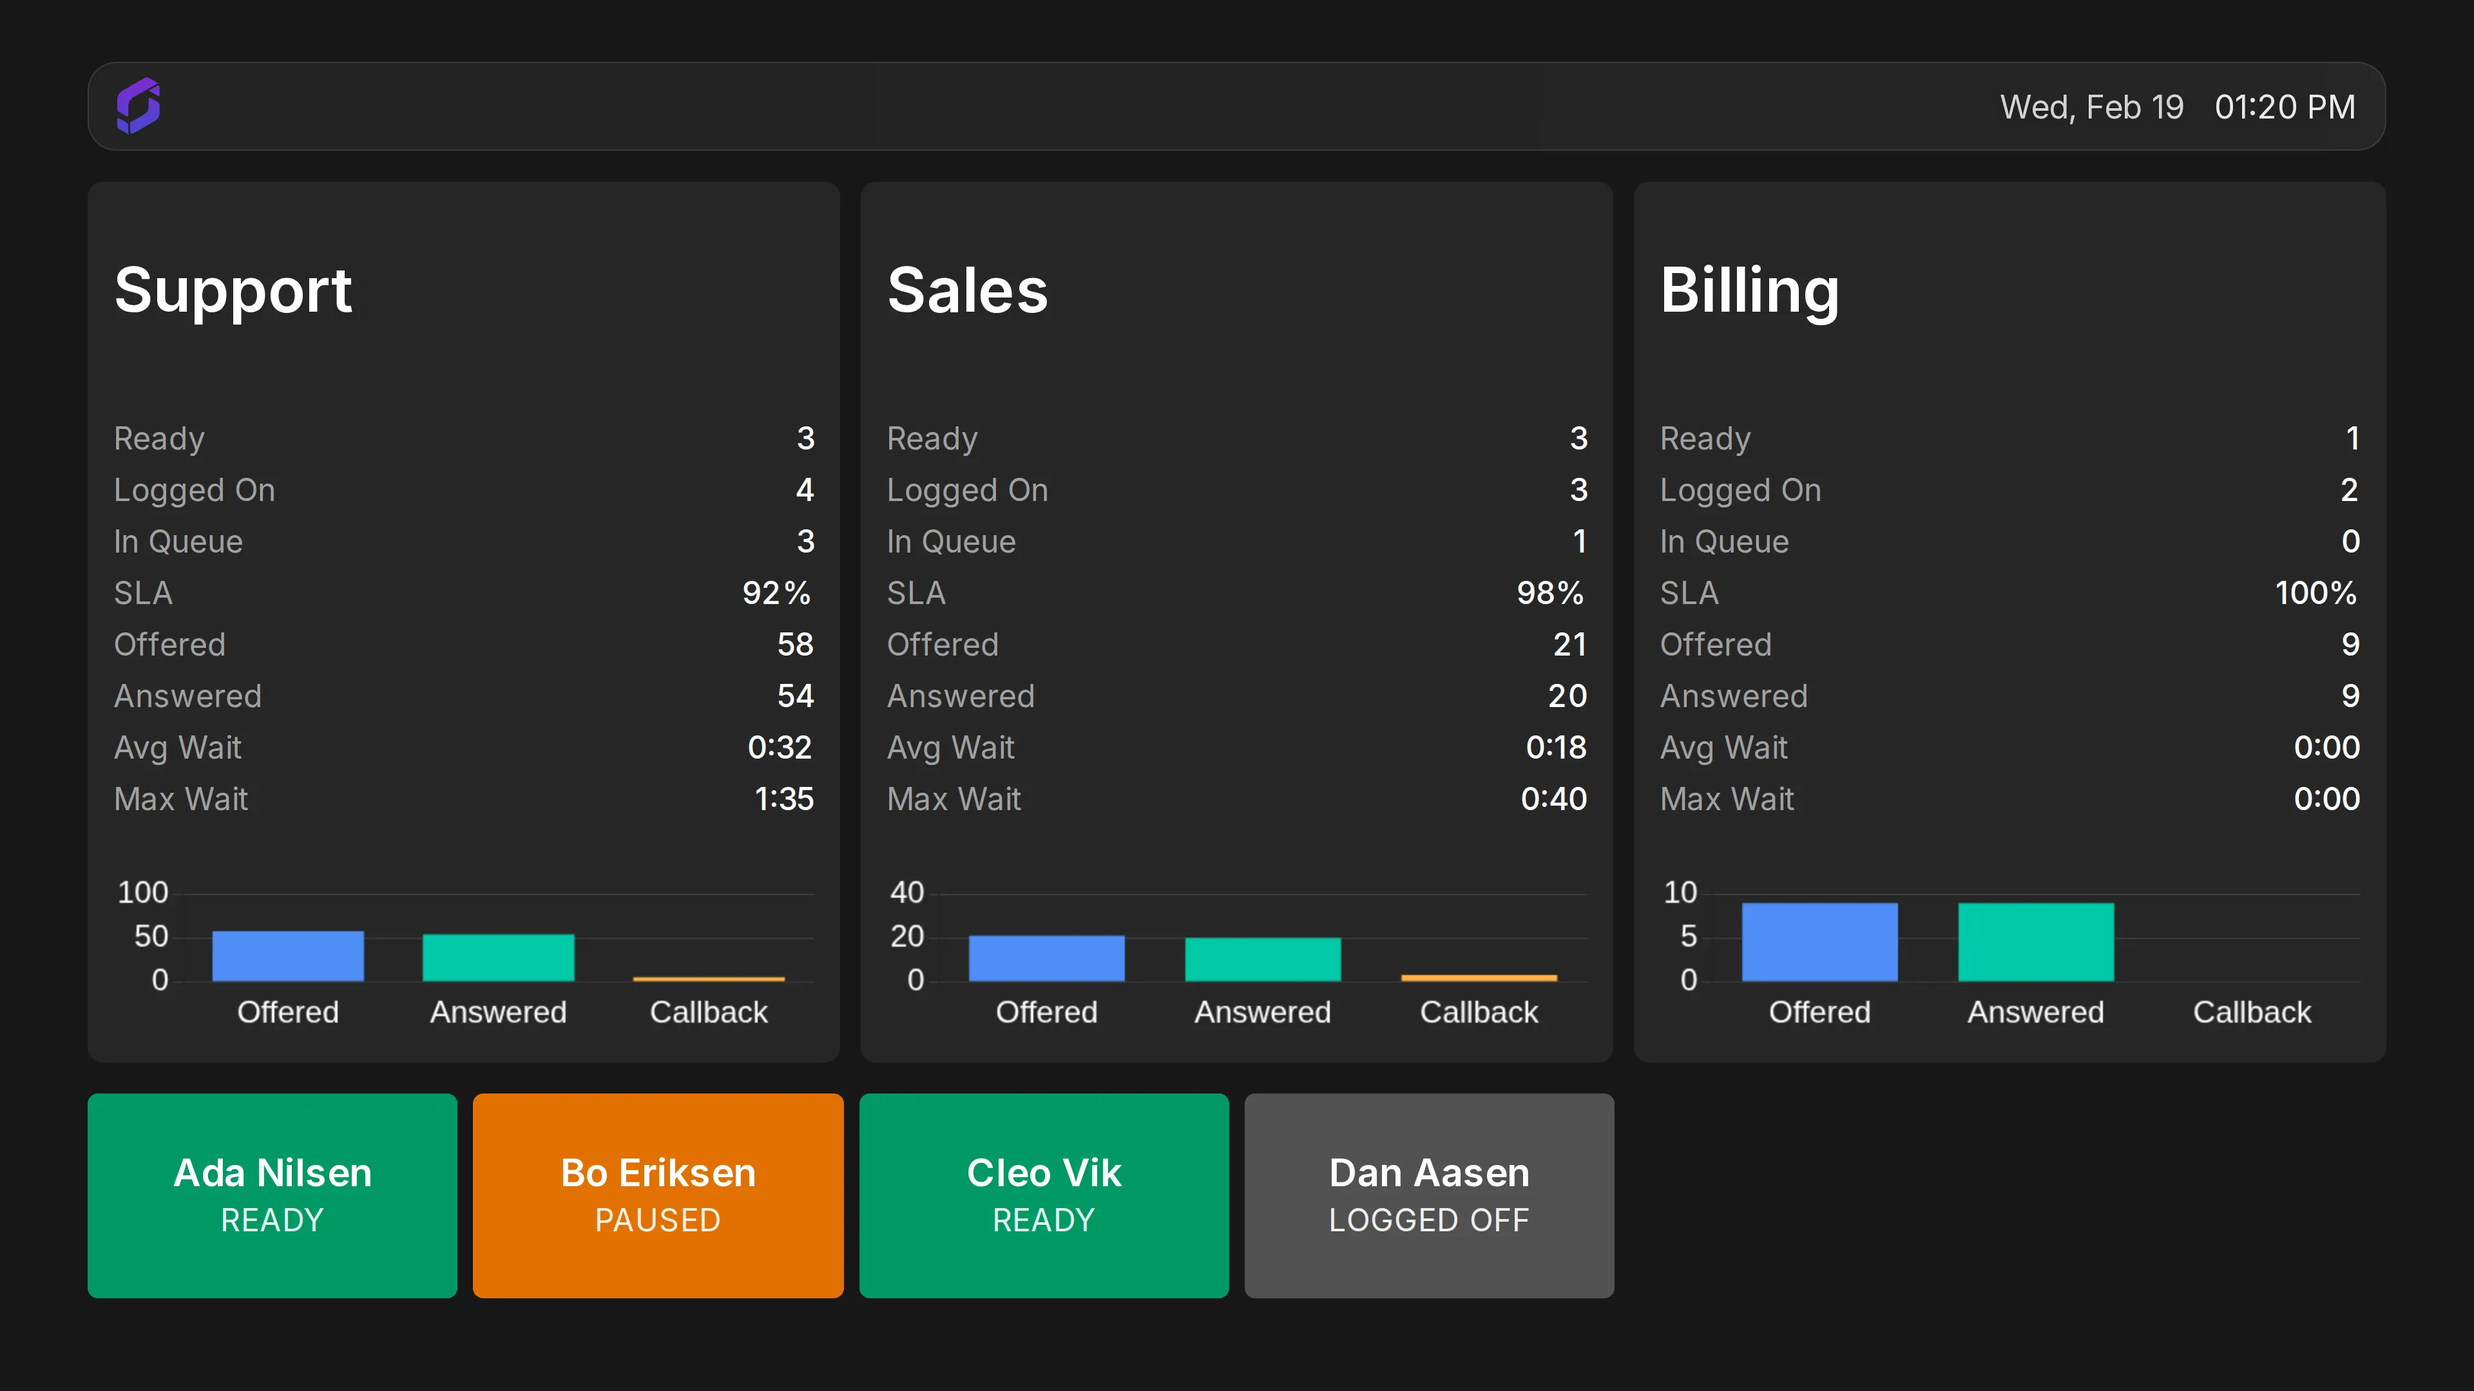
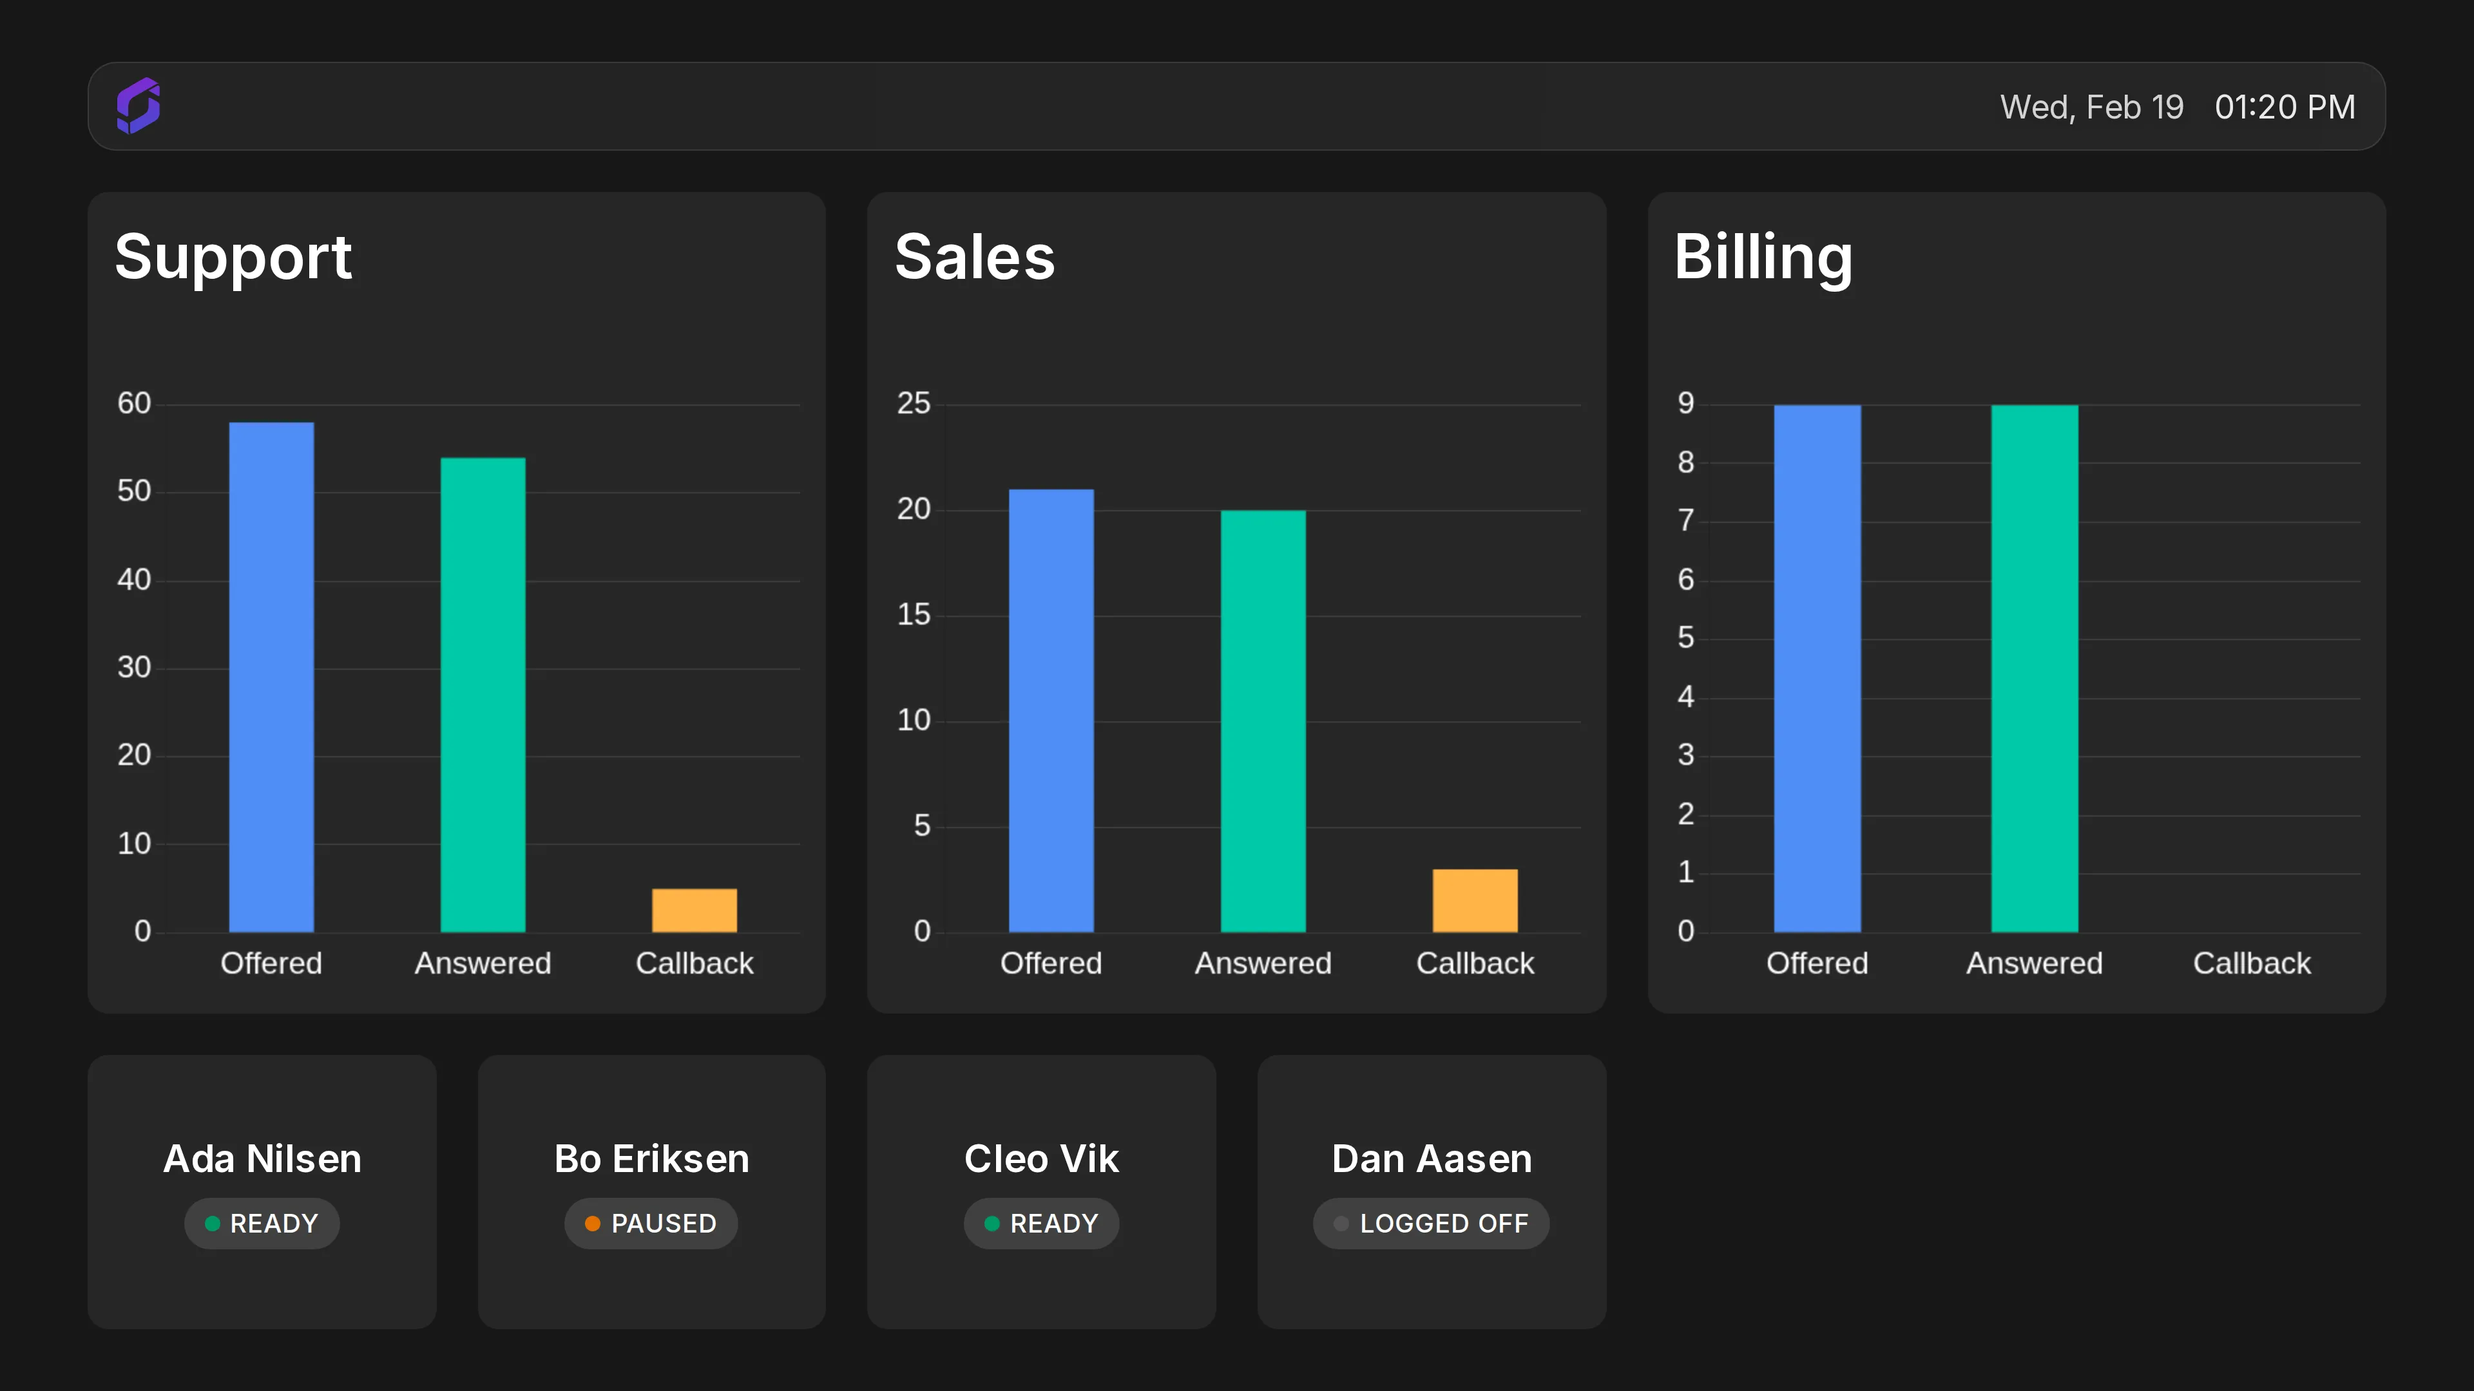
fix: rework queue/agent card layout and sizing
- Fixed card counts (3 queues, 6/4 agents) with CSS-driven fitting
  instead of JS measurement, fixing orientation-resize and flaky
  card-disappearing bugs
- Agent status shown as a colored-dot pill instead of tile-wide color
- Consistent gaps, border radius, and space allocation between
  queue cards and agent tiles
- Narrower chart bars
- Regenerate screenshots

diff --git a/src/templates/queue-card.ts b/src/templates/queue-card.ts
@@ -1,73 +1,31 @@
 import { html, render, type TemplateResult } from 'lit-html'
 import type { QueueStats } from '../api'
-import { formatDuration } from './queue-card.lib'
 import { mountQueueChart } from './queue-chart'
 
-function queueCardTemplate(queue: QueueStats, locale: string): TemplateResult {
-  const number = new Intl.NumberFormat(locale)
+const MAX_QUEUE_CARDS = 3
 
+function queueCardTemplate(queue: QueueStats): TemplateResult {
   return html`
     <div class="queue-card">
-      <h2 class="queue-card-title">${queue.description}</h2>
-      <dl class="queue-card-stats">
-        <dt>Ready</dt>
-        <dd>${number.format(queue.agentsReady)}</dd>
-        <dt>Logged On</dt>
-        <dd>${number.format(queue.agentsLoggedOn)}</dd>
-        <dt>In Queue</dt>
-        <dd>${number.format(queue.queueSize)}</dd>
-        <dt>SLA</dt>
-        <dd>${number.format(queue.sla)}%</dd>
-        <dt>Offered</dt>
-        <dd>${number.format(queue.callsOfferedToday)}</dd>
-        <dt>Answered</dt>
-        <dd>${number.format(queue.callsAnsweredToday)}</dd>
-        <dt>Avg Wait</dt>
-        <dd>${formatDuration(queue.waitTimeAverageSeconds)}</dd>
-        <dt>Max Wait</dt>
-        <dd>${formatDuration(queue.waitTimeMaxSeconds)}</dd>
-      </dl>
+      <div class="queue-card-title">${queue.description}</div>
       <div class="queue-card-chart" id="queue-chart-${queue.id}"></div>
     </div>
   `
 }
 
-function renderCards(
-  container: HTMLElement,
-  queues: QueueStats[],
-  locale: string,
-): void {
-  render(
-    html`${queues.map((queue) => queueCardTemplate(queue, locale))}`,
-    container,
-  )
-
-  for (const queue of queues) {
-    const chartContainer = document.getElementById(`queue-chart-${queue.id}`)
-    if (chartContainer) mountQueueChart(chartContainer, queue)
-  }
-}
-
-function countFittingCards(container: HTMLElement): number {
-  const cards = Array.from(container.children) as HTMLElement[]
-  const bottomLimit = container.parentElement?.getBoundingClientRect().bottom
-
-  if (bottomLimit === undefined) return cards.length
-
-  return cards.filter(
-    (card) => card.getBoundingClientRect().bottom <= bottomLimit,
-  ).length
-}
-
 export function mountQueueCards(
   container: HTMLElement,
   queues: QueueStats[],
-  locale: string,
 ): void {
-  renderCards(container, queues, locale)
+  const visibleQueues = queues.slice(0, MAX_QUEUE_CARDS)
 
-  const fittingCount = countFittingCards(container)
-  if (fittingCount < queues.length) {
-    renderCards(container, queues.slice(0, fittingCount), locale)
+  render(
+    html`${visibleQueues.map((queue) => queueCardTemplate(queue))}`,
+    container,
+  )
+
+  for (const queue of visibleQueues) {
+    const chartContainer = document.getElementById(`queue-chart-${queue.id}`)
+    if (chartContainer) mountQueueChart(chartContainer, queue)
   }
 }

diff --git a/src/dashboard.test.ts b/src/dashboard.test.ts
@@ -23,8 +23,6 @@ const BASE_SETTINGS = {
   display_errors: 'false',
 }
 
-const LOCALE = 'en'
-
 // eslint-disable-next-line max-lines-per-function
 describe('refresh', () => {
   beforeEach(() => {
@@ -49,7 +47,7 @@ describe('refresh', () => {
   test('throws when customer_key is missing', async () => {
     setupScreenlyMock({}, { ...BASE_SETTINGS, customer_key: '' })
 
-    await expect(refresh(LOCALE)).rejects.toThrow(
+    await expect(refresh()).rejects.toThrow(
       'Please set a Customer Key in settings.',
     )
   })
@@ -57,13 +55,11 @@ describe('refresh', () => {
   test('throws when user_id is missing', async () => {
     setupScreenlyMock({}, { ...BASE_SETTINGS, user_id: '' })
 
-    await expect(refresh(LOCALE)).rejects.toThrow(
-      'Please set a User ID in settings.',
-    )
+    await expect(refresh()).rejects.toThrow('Please set a User ID in settings.')
   })
 
   test('writes fetched data to cache and renders it on success', async () => {
-    await refresh(LOCALE)
+    await refresh()
 
     const data = {
       queues: [{ id: 1, description: 'Support' }],
@@ -74,7 +70,7 @@ describe('refresh', () => {
       'dashboard-data',
       data,
     )
-    expect(renderDashboard).toHaveBeenCalledWith(data, LOCALE)
+    expect(renderDashboard).toHaveBeenCalledWith(data)
   })
 
   test('rethrows and skips the cache when display_errors is on', async () => {
@@ -84,7 +80,7 @@ describe('refresh', () => {
     })
     readEdgeAppCache.mockReturnValue({ queues: [], agents: [] })
 
-    await expect(refresh(LOCALE)).rejects.toThrow('down')
+    await expect(refresh()).rejects.toThrow('down')
 
     expect(readEdgeAppCache).not.toHaveBeenCalled()
     expect(renderDashboard).not.toHaveBeenCalled()
@@ -100,9 +96,9 @@ describe('refresh', () => {
     }
     readEdgeAppCache.mockReturnValue(cached)
 
-    await refresh(LOCALE)
+    await refresh()
 
-    expect(renderDashboard).toHaveBeenCalledWith(cached, LOCALE)
+    expect(renderDashboard).toHaveBeenCalledWith(cached)
     expect(reportError).toHaveBeenCalledWith(
       new Error('down'),
       expect.objectContaining({
@@ -118,9 +114,7 @@ describe('refresh', () => {
     })
     readEdgeAppCache.mockReturnValue(null)
 
-    await expect(refresh(LOCALE)).rejects.toThrow(
-      'No cached dashboard data found.',
-    )
+    await expect(refresh()).rejects.toThrow('No cached dashboard data found.')
     expect(renderDashboard).not.toHaveBeenCalled()
   })
 })

diff --git a/src/templates/agent-tile.ts b/src/templates/agent-tile.ts
@@ -2,38 +2,32 @@ import { html, render, type TemplateResult } from 'lit-html'
 import type { AgentStatus } from '../api'
 import { agentStatusColor, agentStatusLabel } from './agent-tile.lib'
 
+const MAX_AGENT_TILES = 6
+
 function agentTileTemplate(agent: AgentStatus): TemplateResult {
   return html`
-    <div class="agent-tile ${agentStatusColor(agent.contactCentreStatus)}">
+    <div class="agent-tile">
       <span class="agent-tile-name">${agent.firstName} ${agent.lastName}</span>
-      <span class="agent-tile-status"
-        >${agentStatusLabel(agent.contactCentreStatus)}</span
-      >
+      <span class="agent-tile-status">
+        <span
+          class="agent-tile-status-dot ${agentStatusColor(
+            agent.contactCentreStatus,
+          )}"
+        ></span>
+        ${agentStatusLabel(agent.contactCentreStatus)}
+      </span>
     </div>
   `
-}
-
-function renderTiles(container: HTMLElement, agents: AgentStatus[]): void {
-  render(html`${agents.map((agent) => agentTileTemplate(agent))}`, container)
-}
-
-function countFittingTiles(container: HTMLElement): number {
-  const tiles = Array.from(container.children) as HTMLElement[]
-  const bottomLimit = container.getBoundingClientRect().bottom
-
-  return tiles.filter(
-    (tile) => tile.getBoundingClientRect().bottom <= bottomLimit,
-  ).length
 }
 
 export function mountAgentTiles(
   container: HTMLElement,
   agents: AgentStatus[],
 ): void {
-  renderTiles(container, agents)
+  const visibleAgents = agents.slice(0, MAX_AGENT_TILES)
 
-  const fittingCount = countFittingTiles(container)
-  if (fittingCount < agents.length) {
-    renderTiles(container, agents.slice(0, fittingCount))
-  }
+  render(
+    html`${visibleAgents.map((agent) => agentTileTemplate(agent))}`,
+    container,
+  )
 }

diff --git a/src/style.css b/src/style.css
@@ -20,38 +20,30 @@
 
 @layer components {
   .queue-card {
-    @apply flex flex-col gap-3 rounded-xl bg-neutral-800 p-5;
+    @apply flex flex-col gap-3 rounded-2xl bg-neutral-800 p-5;
   }
 
   .queue-card-title {
-    @apply text-5xl font-semibold;
-  }
-
-  .queue-card-stats {
-    @apply grid grid-cols-2 gap-x-4 gap-y-2 text-2xl;
-  }
-
-  .queue-card-stats dt {
-    @apply text-neutral-400;
-  }
-
-  .queue-card-stats dd {
-    @apply text-right font-medium;
+    @apply min-h-28 text-5xl leading-tight font-semibold;
   }
 
   .queue-card-chart {
-    @apply mt-1 h-32;
+    @apply mt-1 min-h-0 flex-1;
   }
 
   .agent-tile {
-    @apply flex flex-col items-center justify-center gap-1 rounded-lg p-4 text-center;
+    @apply flex flex-col items-center justify-center gap-3 overflow-hidden rounded-2xl bg-neutral-800 p-4 text-center;
   }
 
   .agent-tile-name {
-    @apply text-3xl font-semibold;
+    @apply w-full truncate text-3xl leading-tight font-semibold;
   }
 
   .agent-tile-status {
-    @apply text-2xl uppercase tracking-wide opacity-90;
+    @apply inline-flex items-center gap-2 rounded-full bg-neutral-700 px-4 py-1.5 text-xl font-medium tracking-wide uppercase;
+  }
+
+  .agent-tile-status-dot {
+    @apply h-3 w-3 rounded-full;
   }
 }

diff --git a/index.html b/index.html
@@ -14,21 +14,21 @@
     >
       <div
         id="app"
-        class="flex h-full w-full flex-col bg-neutral-900 px-12 py-7 text-white portrait:px-8 portrait:py-7"
+        class="flex h-full w-full flex-col gap-8 bg-neutral-900 px-12 py-7 text-white portrait:px-8 portrait:py-7"
       >
         <app-header class="bg-neutral-800 [zoom:1.4]" show-date></app-header>
         <main
           id="dashboard"
-          class="flex flex-1 flex-col gap-6 overflow-hidden py-6 portrait:py-4"
+          class="flex flex-1 flex-col gap-8 overflow-hidden"
           style="display: none"
         >
           <section
             id="queue-cards"
-            class="grid grid-cols-3 gap-4 portrait:grid-cols-1"
+            class="grid min-h-0 flex-[3] auto-rows-fr grid-cols-3 gap-8 overflow-hidden portrait:grid-cols-1 [&>:nth-child(n+3)]:portrait:hidden"
           ></section>
           <section
             id="agent-tiles"
-            class="grid flex-1 grid-cols-6 gap-3 overflow-hidden portrait:grid-cols-3"
+            class="grid min-h-0 flex-1 auto-rows-fr grid-cols-6 gap-8 overflow-hidden portrait:flex-[0.6] portrait:grid-cols-2 [&>:nth-child(n+5)]:portrait:hidden"
           ></section>
         </main>
       </div>

diff --git a/src/templates/queue-chart.ts b/src/templates/queue-chart.ts
@@ -10,9 +10,19 @@ export function mountQueueChart(
   container: HTMLElement,
   queue: QueueStats,
 ): void {
+  const data = [
+    queue.callsOfferedToday,
+    queue.callsAnsweredToday,
+    queue.ciqsAnsweredToday,
+  ]
+
   const existingCanvas = container.querySelector('canvas')
-  if (existingCanvas) Chart.getChart(existingCanvas)?.destroy()
-  container.replaceChildren()
+  const existingChart = existingCanvas && Chart.getChart(existingCanvas)
+  if (existingChart) {
+    existingChart.data.datasets[0].data = data
+    existingChart.update()
+    return
+  }
 
   const canvas = document.createElement('canvas')
   container.appendChild(canvas)
@@ -21,16 +31,7 @@ export function mountQueueChart(
     type: 'bar',
     data: {
       labels: ['Offered', 'Answered', 'Callback'],
-      datasets: [
-        {
-          data: [
-            queue.callsOfferedToday,
-            queue.callsAnsweredToday,
-            queue.ciqsAnsweredToday,
-          ],
-          backgroundColor: CHART_COLORS,
-        },
-      ],
+      datasets: [{ data, backgroundColor: CHART_COLORS, barPercentage: 0.5 }],
     },
     options: {
       responsive: true,

diff --git a/src/templates/index.ts b/src/templates/index.ts
@@ -4,12 +4,12 @@ import { mountQueueCards } from './queue-card'
 
 export type DashboardData = { queues: QueueStats[]; agents: AgentStatus[] }
 
-export function renderDashboard(data: DashboardData, locale: string): void {
+export function renderDashboard(data: DashboardData): void {
   const queueContainer = document.getElementById('queue-cards')!
   const agentContainer = document.getElementById('agent-tiles')!
   const dashboard = document.getElementById('dashboard')!
 
   dashboard.style.display = 'flex'
-  mountQueueCards(queueContainer, data.queues, locale)
+  mountQueueCards(queueContainer, data.queues)
   mountAgentTiles(agentContainer, data.agents)
 }

diff --git a/src/main.ts b/src/main.ts
@@ -6,7 +6,6 @@ import {
   setupTheme,
   signalReady,
 } from '@screenly/edge-apps'
-import { getLocale } from '@screenly/edge-apps/utils'
 import { refresh } from './dashboard'
 import { DEFAULT_REFRESH_INTERVAL_SECONDS } from './constants'
 
@@ -18,10 +17,9 @@ document.addEventListener('DOMContentLoaded', async () => {
     'refresh_interval',
     DEFAULT_REFRESH_INTERVAL_SECONDS,
   )
-  const locale = await getLocale()
 
-  await refresh(locale)
+  await refresh()
   signalReady()
 
-  setInterval(() => refresh(locale), refreshInterval * 1000)
+  setInterval(() => refresh(), refreshInterval * 1000)
 })

diff --git a/src/dashboard.ts b/src/dashboard.ts
@@ -41,12 +41,12 @@ async function getDashboardData(): Promise<DashboardData> {
   return cached
 }
 
-export async function refresh(locale: string): Promise<void> {
+export async function refresh(): Promise<void> {
   const customerKey = getSettingWithDefault<string>('customer_key', '')
   const userId = getSettingWithDefault<string>('user_id', '')
   if (!customerKey) throw new Error('Please set a Customer Key in settings.')
   if (!userId) throw new Error('Please set a User ID in settings.')
 
   const data = await getDashboardData()
-  renderDashboard(data, locale)
+  renderDashboard(data)
 }
